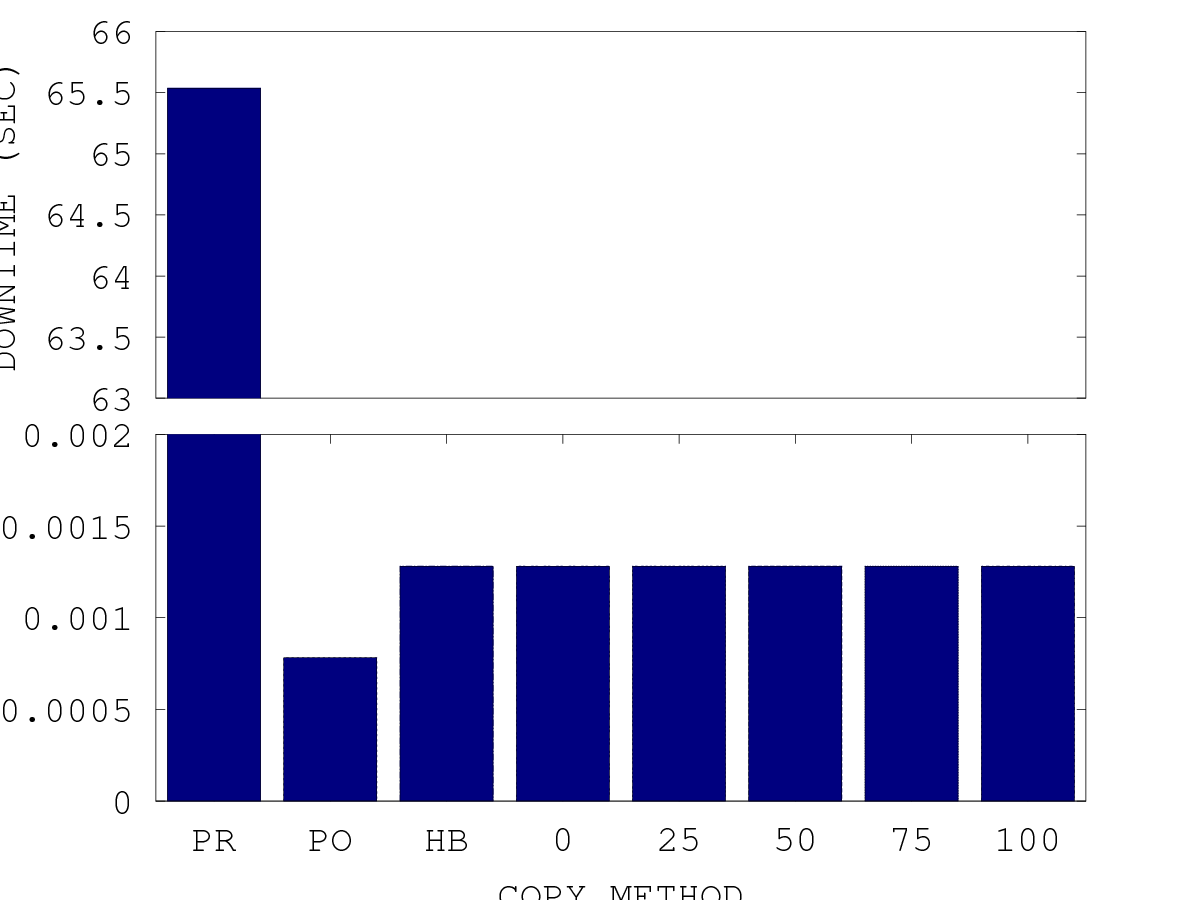
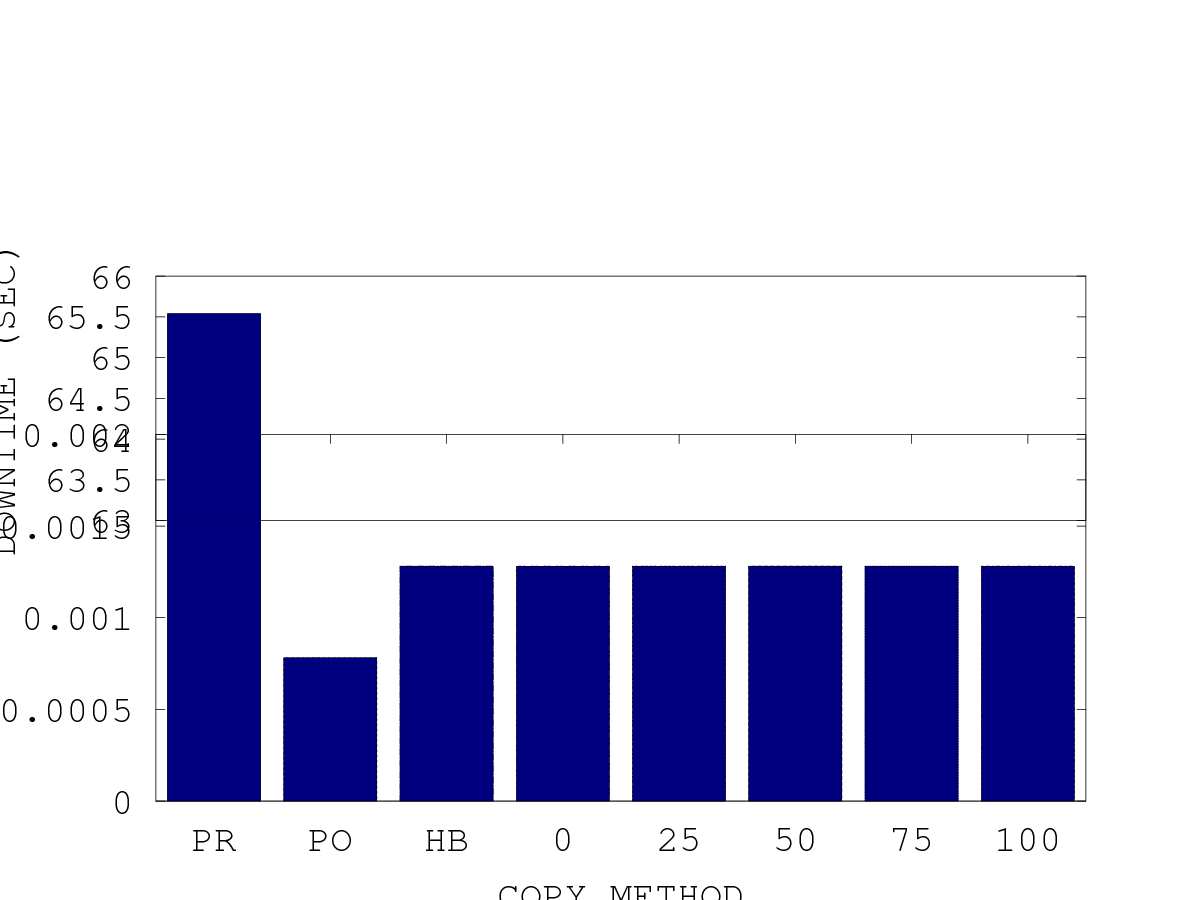
basic_break.m

diff --git a/basic_break.m b/basic_break.m
@@ -306,7 +306,7 @@ set (a1, 'ylim', ylim1);
 xlabel('COPY METHOD', 'FontSize', fontsize);
 %ylabel('DOWNTIME (SEC)', 'FontSize', fontsize);
 
-a2 = axes ('position', [p0(1) p0(4)/2+.15 p0(3) p0(4)/2]);
+a2 = axes ('position', [p0(1) p0(4)/3+.15 p0(3) p0(4)/3]);
 bar(xintervals, A(:,2))
 set(a2, 'ylim', ylim2, 'FontSize', fontsize);
 set(a2, 'xtick', []);
